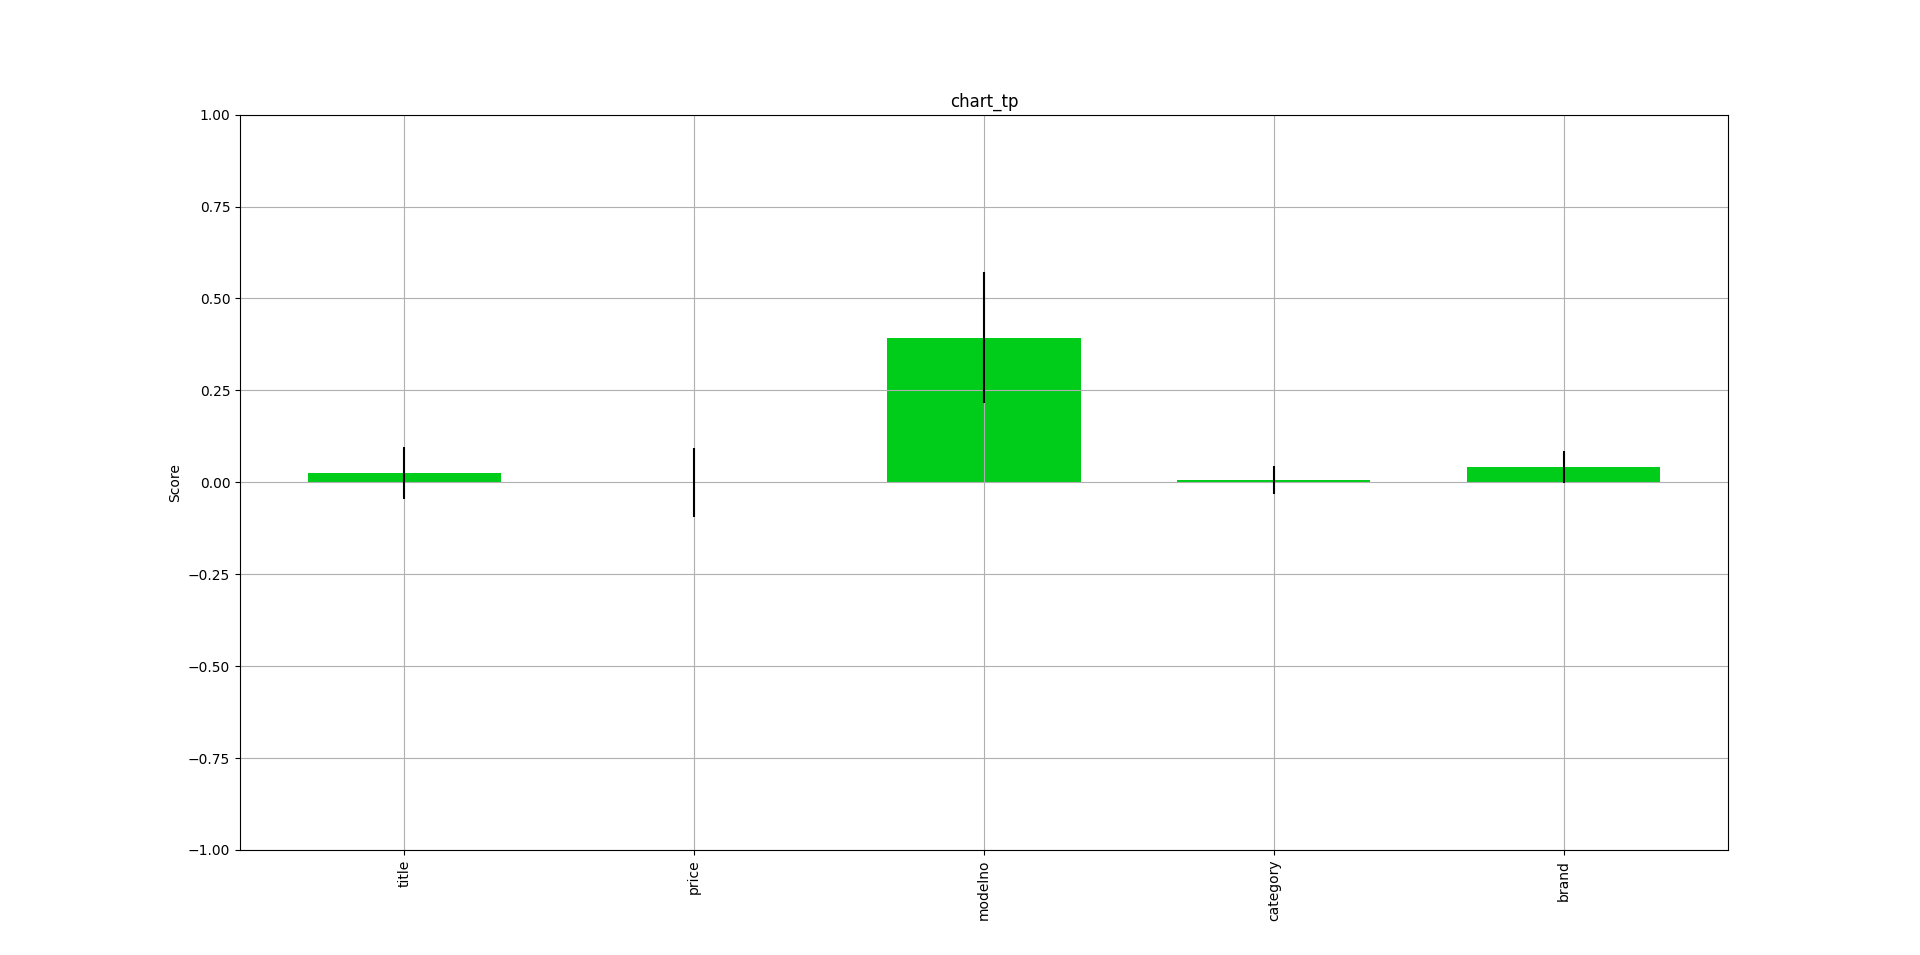
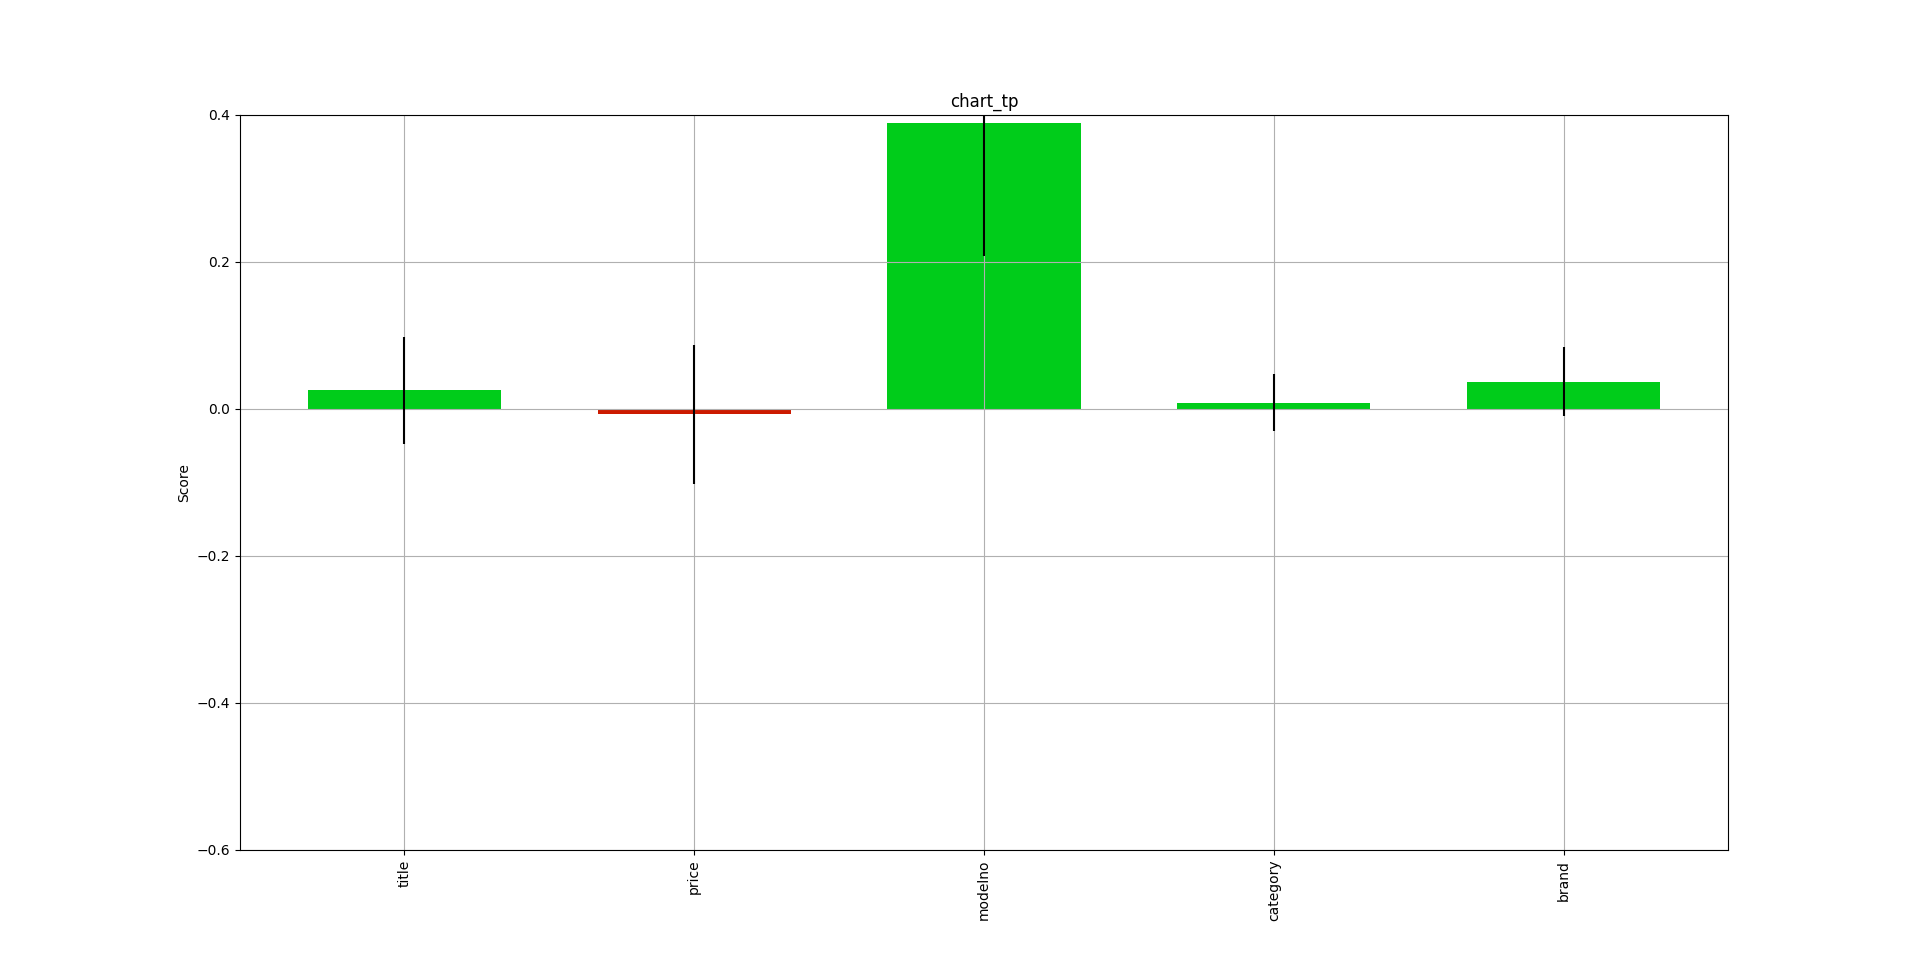
Modified explanability figures (smaller chart scale)

diff --git a/test_explainer.py b/test_explainer.py
@@ -1,0 +1,19 @@
+import os
+import sys
+from matching import run_deepmatcher_w_explainer as dme
+
+if __name__ == '__main__':
+    args = True if len(sys.argv[1:]) > 4 else False  # checks if user provided runtime arguments or not
+
+    datasets_path = 'resources/DeepMatcherDatasets/'
+    datasets = [ 'DBLP-ACM']
+    # datasets = [datasets[3]]
+    for data in datasets:
+        print('\n', data, '\n')
+
+        data_path = sys.argv[1] if args else datasets_path + data + '/' # the folder containing train,valid,test data
+        train_file = sys.argv[2] if args else 'merged_train.csv'
+        valid_file = sys.argv[3] if args else 'merged_valid.csv'
+        test_file = sys.argv[4] if args else 'merged_test.csv'
+        # unlabeled_file = sys.argv[5] if args else data+path+'test_unlabeled.csv'  # unlabeled data for predictions
+        dme.run(data_path,train_file,valid_file,test_file)

diff --git a/matching/run_deepmatcher.py b/matching/run_deepmatcher.py
@@ -12,7 +12,7 @@ def train_or_load_pretrained_model(model, data_path, train_file, valid_file, tes
         model.load_state(os.path.join(data_path, model_name))
         print('Using the pre-trained model '+model_name+'. Delete it or rename it to re-train the model.')
     except:
-        print('No pre-trained model found stored as best_model.pth in the current path.')
+        print('No pre-trained model found stored as ' + model_name +' in the current path.')
         print('Starting training and storing model at current path as '+model_name+ ' ...')
         model.run_train(train, validation, best_save_path=os.path.join(data_path, model_name), epochs=epochs)
         print('Starting evaluation...')

diff --git a/matching/run_deepmatcher_w_explainer.py b/matching/run_deepmatcher_w_explainer.py
@@ -67,8 +67,8 @@ def run(data_path, train_file, valid_file, test_file, unlabeled_file=None, epoch
                         tn_group,
                         num_features = 15,
                         num_perturbation = 100)
-    chart(tp_result, (1, 1, 1), (-1, 1), title = "chart_tp")
-    chart(tn_result, (1, 1, 1), (-1, 1), title = "chart_tn")
+    chart(tp_result, (1, 1, 1), (-0.6, 0.4), title = "chart_tp")
+    chart(tn_result, (1, 1, 1), (-0.6, 0.4), title = "chart_tn")
     return preds
 
 def wrap_dm(model, ignore_columns = ['label', 'id']):

diff --git a/resources/DeepMatcherDatasets/DBLP-ACM/test_dataset.py b/resources/DeepMatcherDatasets/DBLP-ACM/test_dataset.py
@@ -1,0 +1,14 @@
+import pandas as pd
+import os
+import sys
+import csv
+import re
+if __name__ == '__main__':    
+    file1= open('tableB.csv', 'r')
+    while True:
+        line = file1.readline()
+        if not line:
+            break
+        line = re.sub('".*?"','',line)
+        if(line.count(',')!= 4):
+            print('ERROR')
